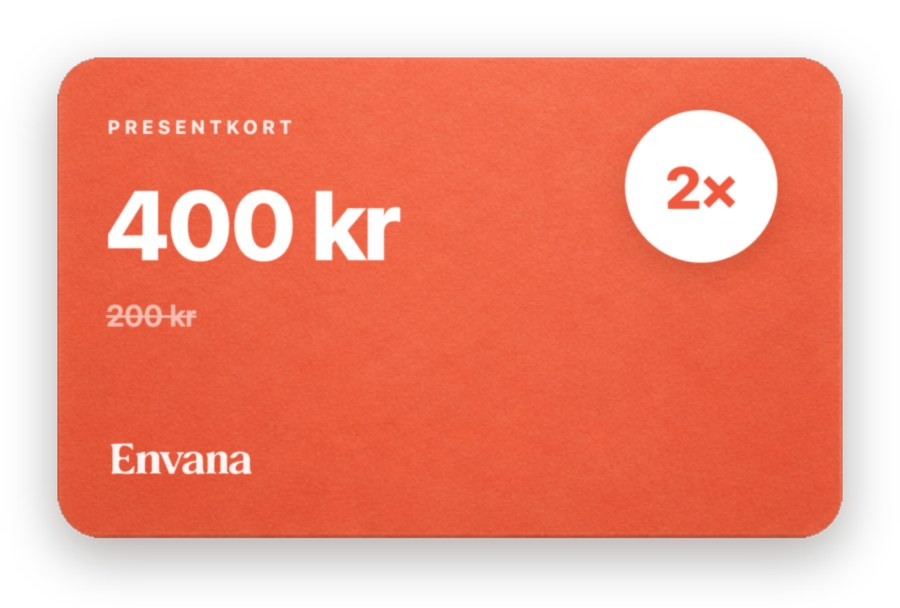
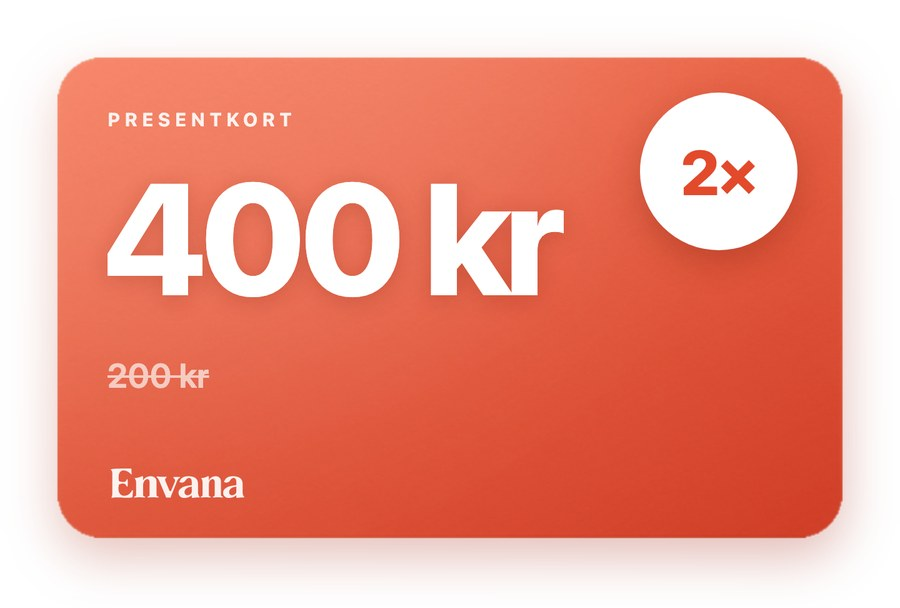
forms: gradient och storre siffror pa kortet, knapparna langst ner
- Kortet har en diagonal gradient fran ljus korall till djup terrakotta med ett
  sken uppe till vanster. Pappersstrukturen ligger kvar som en tunn film ovanpa
  sa det inte blir en platt CSS-yta. Beloppet ar 126 px i stallet for 78.
- 2x-brickan visade "2Ć—": krysset gick sonder som mojibake pa vagen genom
  skalet. Skrivet som HTML-entitet nu, den kan inte ga sonder.
- Knapparna ligger langst ner. margin-top:auto pa knapparna sjalva tryckte dem
  till botten av sitt FALT, inte av steget - det ar faltomslaget som maste
  vaxa. Finstilten flyttades ocksa ovanfor knapparna, den lag under och sköt
  upp dem mot mitten.

diff --git a/scripts/seed-progressbild-form.ts b/scripts/seed-progressbild-form.ts
@@ -291,6 +291,12 @@ const progressbild: FormConfig = {
     // en knapp som sager vad den betyder ar dessutom ett STARKARE samtycke an
     // en ikryssad ruta.
     {
+      kind: "info",
+      key: "samtycke_villkor",
+      showWhen: { field: "steg", in: ["3"] },
+      html: `<p class="chf-privacy" style="margin:14px 0 0">Vi kan komma att använda dem i vår marknadsföring, eller inte alls. Du kan ändra dig när som helst, mejla oss så tar vi bort dem.</p>`,
+    },
+        {
       kind: "choice",
       key: "samtycke",
       showWhen: { field: "steg", in: ["3"] },
@@ -304,13 +310,7 @@ const progressbild: FormConfig = {
         { value: "nej", label: "Nej tack, behåll 200 kr", style: "quiet" },
       ],
     },
-    {
-      kind: "info",
-      key: "samtycke_villkor",
-      showWhen: { field: "steg", in: ["3"] },
-      html: `<p class="chf-privacy" style="margin:14px 0 0">Vi kan komma att använda dem i vår marknadsföring, eller inte alls. Du kan ändra dig när som helst, mejla oss så tar vi bort dem.</p>`,
-    },
-    { kind: "pagebreak", key: "till_namn", label: "Fortsätt" },
+{ kind: "pagebreak", key: "till_namn", label: "Fortsätt" },
 
     // Namnet och orden kommer EFTER jaet. Pa valskarmen ska det bara finnas
     // ett val.

diff --git a/public/forms-embed/v1.js b/public/forms-embed/v1.js
@@ -528,7 +528,8 @@
     ".chf-app .chf-dela svg{width:20px;height:20px}" +
     // Valknappar. Den primara ar stor och fylld, den tysta ar en textrad -
     // samma viktning som mobilspelens "Double Reward" mot "Free".
-    ".chf-app .chf-choices{display:flex;flex-direction:column;gap:10px;margin:auto 0 0}" +
+    ".chf-app .chf-choices{display:flex;flex-direction:column;gap:6px}" +
+    ".chf-app .chf-field-choice{margin:auto 0 0;display:flex;flex-direction:column;justify-content:flex-end}" +
     ".chf-app .chf-choice{display:flex;flex-direction:column;align-items:center;gap:3px;" +
     "width:100%;border:0;border-radius:14px;padding:17px 20px;font:inherit;cursor:pointer;" +
     "transition:transform .15s}" +
@@ -992,6 +993,7 @@
           wrap.appendChild(buildInput(f));
           wrap.appendChild(elText("div", "chf-error", ""));
         }
+        if (f.kind === "choice") wrap.classList.add("chf-field-choice");
         wrap.setAttribute("data-key", f.key);
         if (f.kind === "hidden") wrap.style.display = "none";
         if (f.showWhen) {
